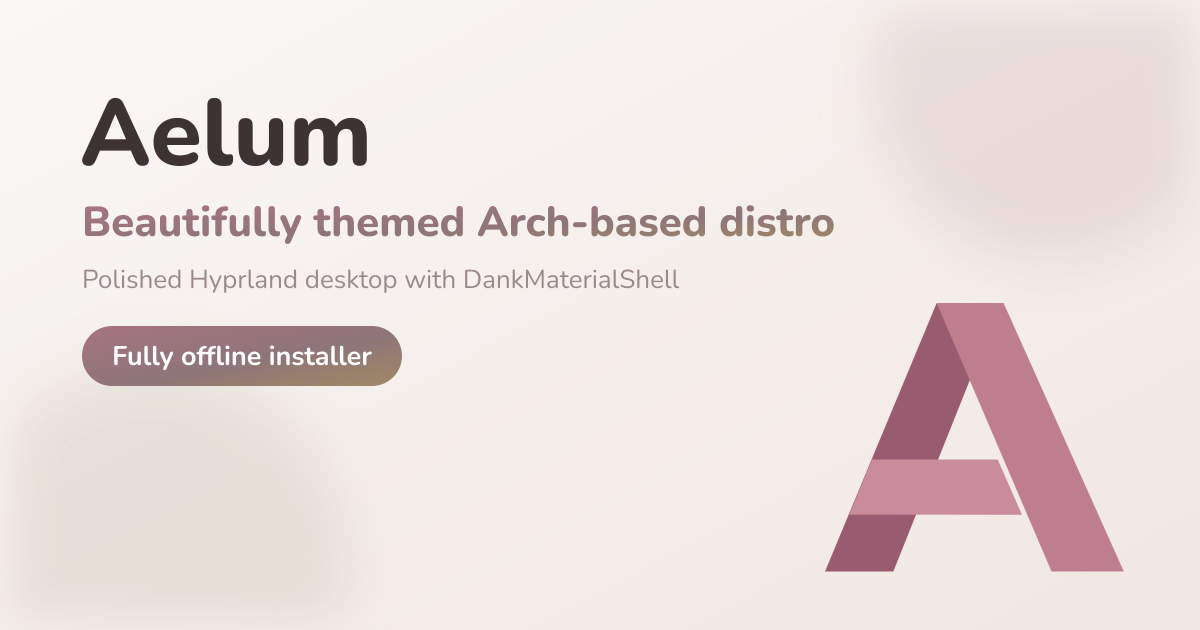
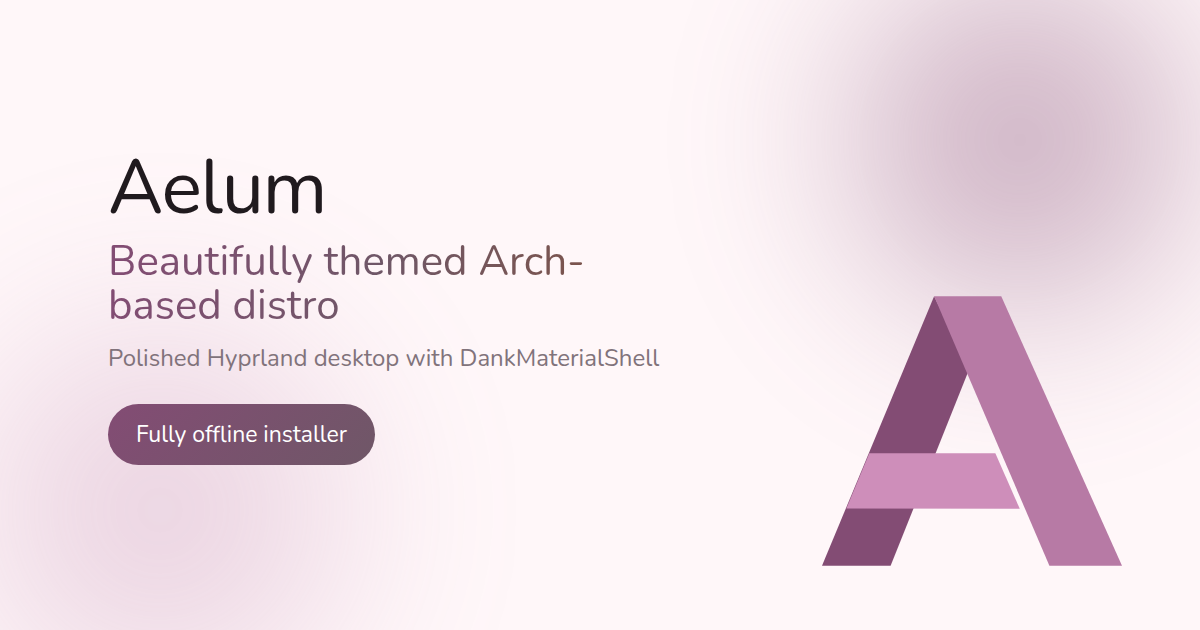
og-image: replace base64 SVG source with editable HTML + re-export script
Drop the 208 KB base64-raster public/og-image.svg (nothing referenced it;
Layout.astro serves og-image.png). Make scripts/og-image.html the single
editable source of truth and add scripts/export-og-image.sh + `npm run
og-image` to re-export the PNG headless via Chromium (so self-hosted Nunito
draws). Served og-image.png content is unchanged. Update AGENTS.md/README.md.

diff --git a/scripts/og-image.html b/scripts/og-image.html
@@ -1,0 +1,86 @@
+<!doctype html>
+<html>
+<head>
+<meta charset="utf-8">
+<!--
+  OG share image source of truth (1200x630).
+
+  This HTML file is the ONLY thing you edit when the og-image needs a change
+  (copy, logo, colours, layout). Regenerate the served PNG with:
+
+      npm run og-image      # -> public/og-image.png
+
+  It is rendered headless with Chromium so the self-hosted Nunito woff2 draws
+  (rsvg/cairo cannot). Paths are relative to this file (scripts/), so the
+  wrapper is portable and needs no build step.
+-->
+<style>
+  @font-face {
+    font-family: "Nunito";
+    font-style: normal;
+    font-weight: 400;
+    src: url("../src/styles/fonts/nunito-v16-latin-regular.woff2") format("woff2");
+  }
+  @font-face {
+    font-family: "Nunito";
+    font-style: normal;
+    font-weight: 700;
+    src: url("../src/styles/fonts/nunito-v16-latin-regular.woff2") format("woff2");
+  }
+  * { box-sizing: border-box; margin: 0; padding: 0; }
+  html, body { width: 1200px; height: 630px; }
+  body {
+    width: 1200px;
+    height: 630px;
+    overflow: hidden;
+    position: relative;
+    background: #fff7f9;
+    font-family: "Nunito", system-ui, sans-serif;
+    color: #201a1e;
+  }
+  /* soft blurred accent blobs behind the copy */
+  .blob { position: absolute; border-radius: 50%; filter: blur(70px); }
+  .blob-tl { top: -120px; right: -80px; width: 520px; height: 520px;
+             background: radial-gradient(circle, #834c74, transparent 70%); opacity: 0.5; }
+  .blob-bl { bottom: -160px; left: -120px; width: 560px; height: 560px;
+             background: radial-gradient(circle, #b77aa5, transparent 70%); opacity: 0.35; }
+  .copy { position: absolute; left: 108px; top: 150px; max-width: 560px; }
+  .title { font-size: 76px; font-weight: 700; line-height: 1.02; letter-spacing: -0.02em; }
+  .subtitle {
+    font-size: 42px;
+    font-weight: 700;
+    line-height: 1.05;
+    margin-top: 12px;
+    background: linear-gradient(104deg, #834c74 0%, #6f5767 48%, #815341 100%);
+    -webkit-background-clip: text;
+    background-clip: text;
+    color: transparent;
+  }
+  .lead { font-size: 24px; font-weight: 400; color: #81737b; margin-top: 14px; }
+  .chip {
+    display: inline-flex;
+    align-items: center;
+    margin-top: 30px;
+    padding: 15px 28px;
+    border-radius: 999px;
+    background: linear-gradient(135deg, #834c74, #6f5767);
+    color: #ffffff;
+    font-size: 23px;
+    font-weight: 700;
+  }
+  .logo { position: absolute; left: 822px; top: 296px; width: 300px; height: 270px; }
+  .logo img { width: 100%; height: 100%; display: block; }
+</style>
+</head>
+<body>
+  <div class="blob blob-tl"></div>
+  <div class="blob blob-bl"></div>
+  <div class="copy">
+    <div class="title">Aelum</div>
+    <div class="subtitle">Beautifully themed Arch-based distro</div>
+    <div class="lead">Polished Hyprland desktop with DankMaterialShell</div>
+    <div class="chip">Fully offline installer</div>
+  </div>
+  <div class="logo"><img src="../public/logo.svg" alt="Aelum logo"></div>
+</body>
+</html>

diff --git a/AGENTS.md b/AGENTS.md
@@ -16,6 +16,7 @@ npm install        # install dependencies
 npm run dev        # dev server at localhost:4321
 npm run build      # production build -> ./dist
 npm run preview    # preview the production build
+npm run og-image   # re-export public/og-image.png from scripts/og-image.html (Chromium)
 npm run typecheck  # astro check (type checking)
 npm run format     # biome format --write .
 npm run format:check
@@ -44,7 +45,7 @@ npm run check      # biome format . && astro check   # run before committing
 
 - Material-You / glassy aelum mirroring the Aelum desktop (Hyprland + DankMaterialShell).
 - Fonts are self-hosted woff2 under `src/styles/fonts/` (Nunito + JetBrains Mono + Nerd Fonts symbols) — keep them offline; the site must stay fully offline.
-- Favicons are rounded PNGs in `public/` (`favicon-16.png`, `favicon-32.png`, derived from the master `public/logo.png`); OG share image is `public/og-image.svg` (vector source, re-exported to `og-image.png`).
+- Favicons are rounded PNGs in `public/` (`favicon-16.png`, `favicon-32.png`, derived from the master `public/logo.png`); the OG share image is `public/og-image.png`, exported from the editable HTML source `scripts/og-image.html` via `npm run og-image`.
 
 ## Deployment
 
@@ -89,7 +90,7 @@ component consumes (`releaseVersion`, `downloadUrl`, `checksums`, `signingKey`).
 - For **canonical/absolute URLs** (OG/Twitter images in `Layout.astro`), derive them from Astro's config with `new URL("og-image.png", Astro.url).href` so the base and site URL stay in one place.
 - Do not hardcode the base string; keep it in `astro.config.mjs`.
 - **Favicons:** rounded, optimized PNGs live in `public/` (`favicon-16.png`, `favicon-32.png`) and are referenced in `Layout.astro`. They are derived from the master `public/logo.png` (downscaled with rounded corners). Prefer these small favicons over the large `logo.png` in hot paths like the header.
-- **OG share image (`og-image.png`)** is exported from its vector source `public/og-image.svg` — never hand-edit the PNG. It drives social/Telegram link previews, so update both the SVG copy and re-export when the site text or logo changes. Re-export with headless Chromium (it loads the self-hosted Nunito woff2, which `rsvg`/cairo cannot): copy `src/styles/fonts/nunito-v16-latin-regular.woff2` to `public/nunito.woff2` (the SVG references it), inline the SVG into an HTML wrapper sized 1200×630, and screenshot with `chromium --headless=new --window-size=1200,630 --screenshot=public/og-image.png file://…/wrapper.html`.
+- **OG share image (`og-image.png`)** is exported from its editable HTML source `scripts/og-image.html` — never hand-edit the PNG. It drives social/Telegram link previews, so edit the copy/logo/colours/layout in `scripts/og-image.html` and re-export when the site text or logo changes: `npm run og-image` (alias for `bash scripts/export-og-image.sh`). The script renders the 1200×630 wrapper headless with Chromium, which draws the self-hosted Nunito woff2 that `rsvg`/cairo cannot. `scripts/og-image.html` is the single source of truth, so the repo carries no base64-raster bloat (the old `public/og-image.svg` was removed).
 
 ## Gotchas
 

diff --git a/README.md b/README.md
@@ -50,13 +50,14 @@ public/
   logo.png             # brand mark / large logo
   favicon-16.png       # small favicon (16×16)
   favicon-32.png       # small favicon (32×32)
-  og-image.svg         # social share image (vector source)
-  og-image.png         # social share image (raster export)
+  og-image.png         # social share image (raster export; see scripts/og-image.html)
   images/              # hero shots + installer demo video
   robots.txt           # points at the deployed sitemap
   scripts/
     app.js             # hash-based single-shell page router
     theme.js           # light/dark theme logic (persisted in localStorage)
+    og-image.html      # OG share image source (edit, then `npm run og-image`)
+    export-og-image.sh # headless-Chromium export -> public/og-image.png
     theme-toggle.js    # theme toggle button
 ```
 
